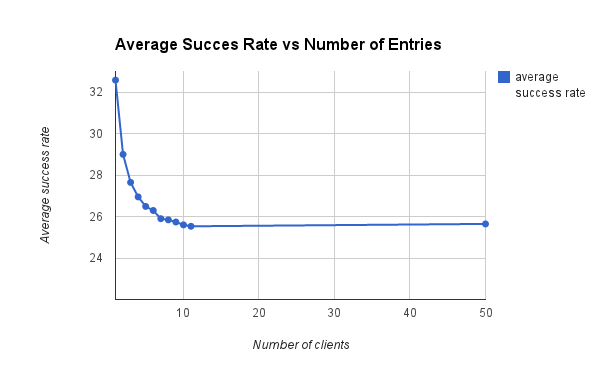
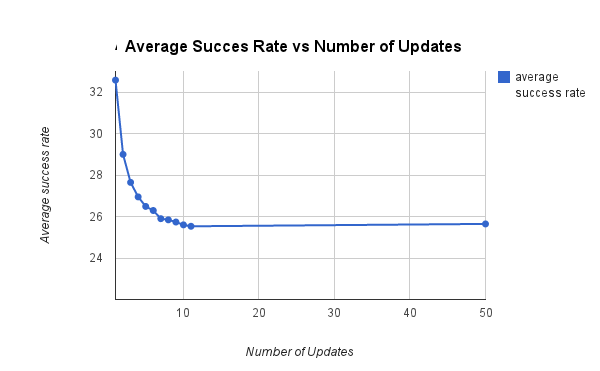
report completed

Changed region(s): [[0.18, 0.0889, 0.78, 0.1482], [0.42, 0.9191, 0.6, 0.9784]]

diff --git a/opty/report/OPTY.tex b/opty/report/OPTY.tex
@@ -19,7 +19,47 @@ This session consists in the implementation of a transaction server using optimi
 
 
 \section{Work done}
+For the basic program, we just had to fill the gaps so we didn't have to take major design decisions. We took some decisions when we modified the files to do the experiments.\\
+To modify the Read/Write ratio, we modified the do\_transactions function, replacing the write and the read by twxo functions \emph{do\_reads} and \emph{do\_writes}:
+\lstset{language=erlang}   
+\begin{lstlisting}
+do_reads(_, _, _, 0) ->
+    ok;
 
+do_reads(Handler, Refx, Num, N) ->
+    Handler ! {read, Ref, Num},
+    do_reads(Handler, Ref, Num, N-1).
+
+do_writes(_, _, _, 0) ->
+    ok;
+
+do_writes(Handler, Num, Value, N) ->
+    Handler ! {write, Num, Value+1},
+    do_writes(Handler, Num, Value+1, N-1).
+
+\end{lstlisting}
+The number of reads and writes to do during one transaction were implemented as parameters of the \emph{opty:start} function.\\ \\ 
+
+To generate randomly a subset of n entries, we created a dedicated function in the opty module.
+\begin{lstlisting}
+generate_subset(0, _, Subset) ->
+    list_to_tuple(Subset);
+
+generate_subset(Number, Entries, Subset) ->
+    Temp = random:uniform(Entries),
+    case lists:any(fun(E) -> E == Temp end, Subset) of
+	true ->
+	    generate_subset(Number, Entries, Subset);
+	false ->
+	    generate_subset(Number - 1, Entries, [Temp|Subset])
+    end.
+\end{lstlisting}
+
+We call this function when we create a client, and then the subset will be transmitted as a parameter to the client. When a client chooses which entry it will access, it can only access one of the entries of the subset thanks to these two lines of code:
+\begin{lstlisting}
+Index = random:uniform(tuple_size(Subset)),
+Num = element(Index, Subset),
+\end{lstlisting}
 
 \section{Experiments}
 
@@ -48,7 +88,7 @@ In this experiment, we will study the influence of the number of entries on the 
 \end{figure}
 
 \subsubsection{Open Question}
-As we see in the figure, there is no clear correlation between the number of entries and the succes rate of transactions. The only thing that we can say is that the rate is higher when there is only one entry (around 29\%, against 27\% for other values, the experiment was repeated several times with the same result). We also observe that the success rate is the same for all the clients (less than 1\% of difference in all the cases).
+As we see in the figure, there is no clear correlation between the number of entries and the succes rate of transactions. The only thing that we can say is that the rate is a bit higher when there is only one entry (around 29\%, against 27\% for other values, the experiment was repeated several times with the same result). We also observe that the success rate is the same for all the clients (less than 1\% of difference in all the cases).
 
 
 \subsection{Number of updates}
@@ -57,7 +97,7 @@ In this experiment, we will study the influence of the number of updates on the 
 \begin{figure}[H]
 \begin{center}
 \includegraphics[scale=0.5]{exp3.png}
-\caption{Impact of the number of clients on the average success rate}
+\caption{Impact of the number of updates on the average success rate}
 \end{center}
 \end{figure}
 
@@ -81,14 +121,22 @@ We can see on Figure4 that the uncommited transactions are the result of the con
 \subsection{Percentage of accessed entries}
 In this experiment, we will study the influence of the percentage of accessed entries on the success rate of transactions. We will set the number of clients to 4, the number of entries to 10, the number of updates to 4 and the time to ten seconds. We tried the experiment with values from 10\% until 100\%.
 
+\begin{figure}[H]
+\begin{center}
+\includegraphics[scale=0.5]{exp5.png}
+\caption{Impact of the percentage of accessed entries on the average success rate}
+\end{center}
+\end{figure}
 
 \subsubsection{Open Question}
+As we could expect, we see that the success rate decreases when the percentage of accessed entries increases, because the risk of conflicts is higher. The success rate is different for each client and depends on the different subset of entries accessed by all the clients. If a client has in its subset only entries that other clients cannot access, its success rate will be 100\%, but the more entries it has to share with other clients, the more its success rate will decrease. The success rate highly depends on the random generation of the subset, so we repeated each experiment ten times and took the average value to have something meaningful.
+
 
 \subsection{Split the opty module}
 
 \subsubsection{Open Question}
 
 \section{Personal opinion}
-
+This activity seems to be a logical continuation of the Paxy seminar. The program is more complete and also very interesting, and the experiments allowed us to understand better how the algorithm works.
 
 \end{document}
